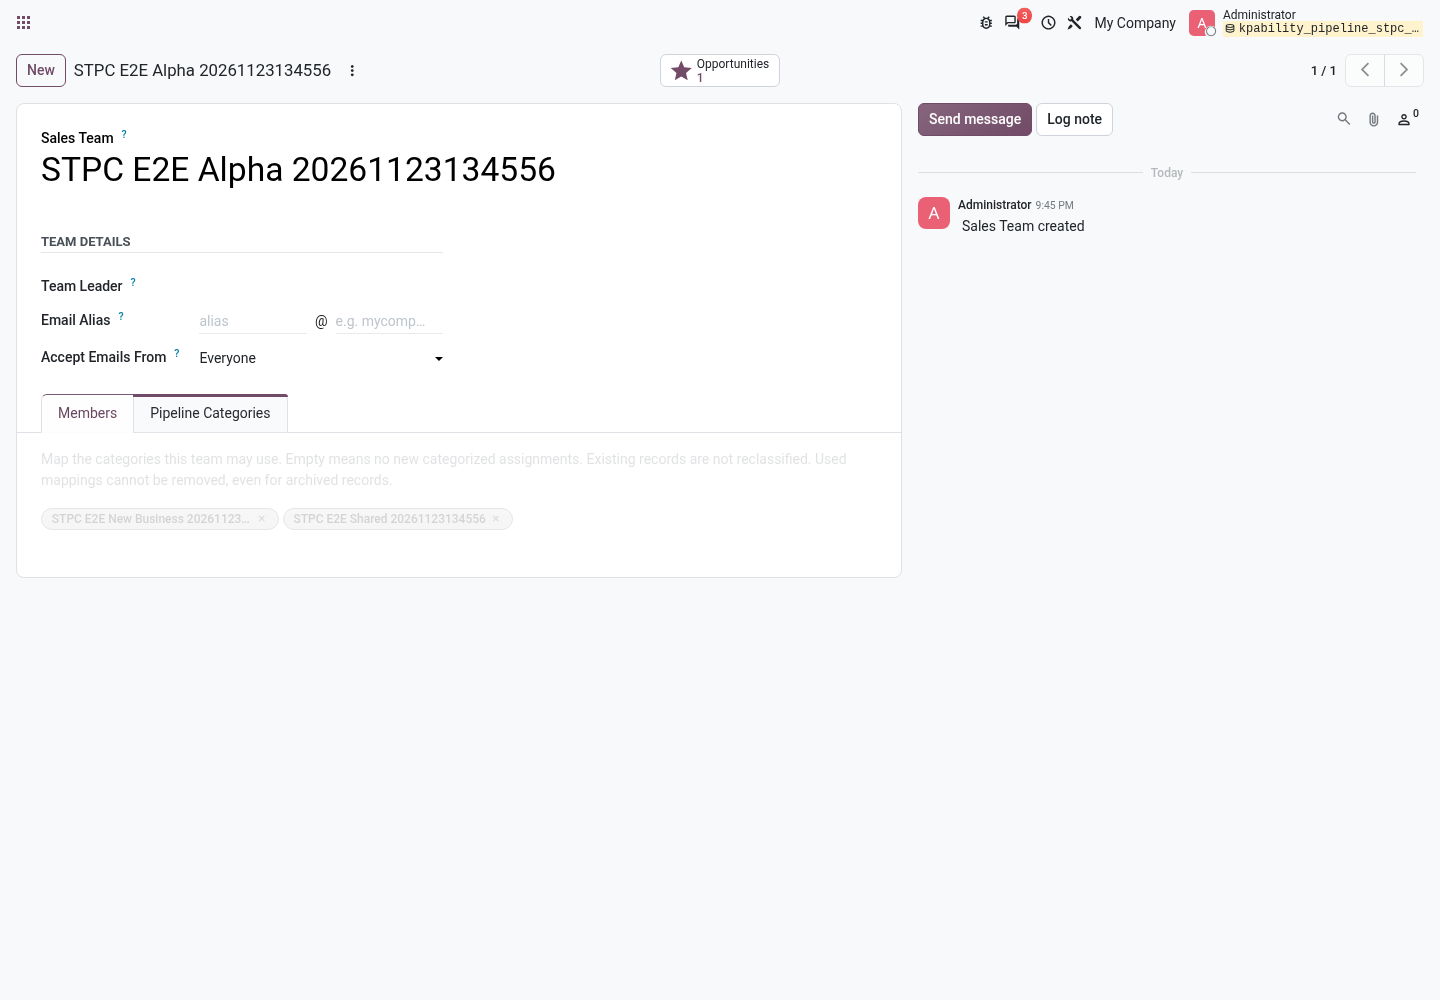
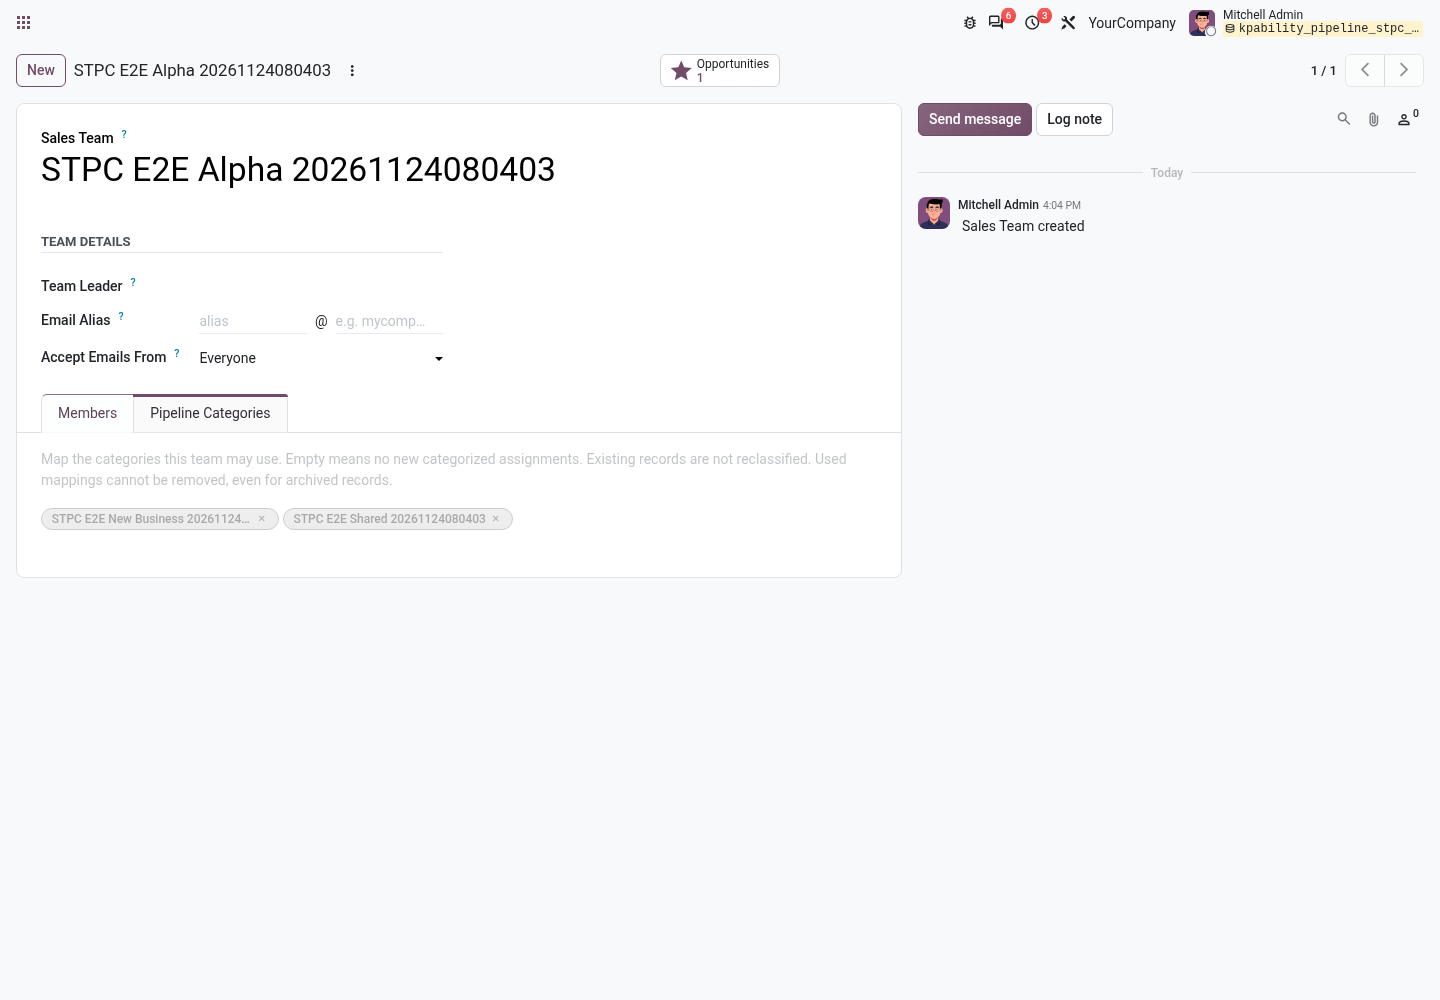
fix: gate category-side mapping and stabilize browser checks

diff --git a/kpability_sales_team_pipeline_categories/tests/e2e/test_sales_team_pipeline_categories.py b/kpability_sales_team_pipeline_categories/tests/e2e/test_sales_team_pipeline_categories.py
@@ -8,6 +8,7 @@ import json
 import os
 import re
 import secrets
+import time
 import unittest
 from datetime import datetime, timezone
 from pathlib import Path
@@ -141,6 +142,19 @@ class SalesTeamPipelineBrowserTests(unittest.TestCase):
     def persisted(self, lead):
         return self.call("crm.lead", "read", [[lead], ["team_id", "pipeline_category_id", "expected_revenue"]])[0]
 
+    def wait_for(self, check, label):
+        deadline = time.monotonic() + 10
+        while time.monotonic() < deadline:
+            if check():
+                return
+            self.page.wait_for_timeout(250)
+        self.fail(f"Timed out waiting for {label}")
+
+    def other_team_categories(self):
+        return self.call(
+            "crm.team", "read", [[self.other_team], ["pipeline_category_ids"]]
+        )[0]["pipeline_category_ids"]
+
     def test_01_native_team_configuration_and_category_mapping(self):
         self.open_record("crm.team", self.team)
         self.page.get_by_role("tab", name="Pipeline Categories", exact=True).click()
@@ -155,15 +169,15 @@ class SalesTeamPipelineBrowserTests(unittest.TestCase):
         expect(category_teams.locator("input")).to_be_visible()
         category_teams.locator("input").fill(self.team_names[1])
         self.page.get_by_role("option", name=self.team_names[1], exact=True).click()
+        expect(category_teams).to_contain_text(self.team_names[1])
         self.page.screenshot(path=str(self.output / "STPC01-category-team-mapping.png"), full_page=True)
         self.page.get_by_role("button", name="Save manually", exact=True).click()
-        stored = self.call("crm.team", "read", [[self.other_team], ["pipeline_category_ids"]])[0]
-        self.assertIn(self.category, stored["pipeline_category_ids"])
+        self.wait_for(lambda: self.category in self.other_team_categories(), "category-side team link")
         # Restore the original mapping so later cases keep the same fixtures.
         category_teams.locator(".o_tag", has_text=self.team_names[1]).locator(".o_delete").click()
+        expect(category_teams).not_to_contain_text(self.team_names[1])
         self.page.get_by_role("button", name="Save manually", exact=True).click()
-        stored = self.call("crm.team", "read", [[self.other_team], ["pipeline_category_ids"]])[0]
-        self.assertNotIn(self.category, stored["pipeline_category_ids"])
+        self.wait_for(lambda: self.category not in self.other_team_categories(), "category-side team unlink")
 
     def test_02_category_dropdown_intersects_team_mapping(self):
         self.open_record("crm.lead", self.lead)
@@ -254,6 +268,10 @@ class SalesTeamPipelineBrowserTests(unittest.TestCase):
             page.get_by_role("tab", name="Pipeline Categories", exact=True).click()
             expect(page.locator("[name='pipeline_category_ids']")).to_contain_text(self.category_names[0])
             expect(page.locator("[name='pipeline_category_ids'] input")).to_have_count(0)
+            self.open_backend(page, f"crm.pipeline.category/{self.category}")
+            page.locator(".o_form_view").wait_for()
+            expect(page.locator("[name='sales_team_ids']")).to_contain_text(self.team_names[0])
+            expect(page.locator("[name='sales_team_ids'] input")).to_have_count(0)
             page.screenshot(path=str(self.output / "STPC08-sales-read-only.png"), full_page=True)
         finally:
             client.close()

diff --git a/kpability_sales_team_pipeline_categories/tests/test_sales_team_pipeline_categories.py b/kpability_sales_team_pipeline_categories/tests/test_sales_team_pipeline_categories.py
@@ -331,6 +331,12 @@ class TestSalesTeamPipelineCategories(TransactionCase):
             self.team_a.with_user(self.sales).write({"pipeline_category_ids": [Command.clear()]})
         self.team_empty.with_user(self.manager).write({"pipeline_category_ids": [Command.link(self.category_shared.id)]})
         self.assertIn(self.category_shared, self.team_empty.pipeline_category_ids)
+        self.assertFalse(self.category_a.with_user(self.sales).s_can_edit_sales_teams)
+        self.assertTrue(self.category_a.with_user(self.manager).s_can_edit_sales_teams)
+        with self.assertRaises(AccessError):
+            self.category_a.with_user(self.sales).write({
+                "sales_team_ids": [Command.link(self.team_other.id)],
+            })
 
     def test_stpc08_mapping_does_not_grant_record_access(self):
         lead = self._lead(self.category_shared, user_id=self.manager.id)

diff --git a/kpability_sales_team_pipeline_categories/models/crm_pipeline_category.py b/kpability_sales_team_pipeline_categories/models/crm_pipeline_category.py
@@ -17,6 +17,16 @@ class CrmPipelineCategory(models.Model):
              "team-side protections for used history and company scope still apply. "
              "Company-specific categories only accept teams of that company; shared categories accept any team.",
     )
+    s_can_edit_sales_teams = fields.Boolean(
+        string="Can Edit Sales Teams",
+        compute="_compute_s_can_edit_sales_teams",
+    )
+
+    @api.depends_context("uid")
+    def _compute_s_can_edit_sales_teams(self):
+        can_write = self.env.user.has_group("sales_team.group_sale_manager")
+        for category in self:
+            category.s_can_edit_sales_teams = can_write
 
     @api.model_create_multi
     def create(self, vals_list):

diff --git a/kpability_sales_team_pipeline_categories/docs/pull-request-draft.md b/kpability_sales_team_pipeline_categories/docs/pull-request-draft.md
@@ -7,7 +7,8 @@
 Add `kpability_sales_team_pipeline_categories` (`20.0.1.0.0`) as an optional
 Odoo 20 add-on. Sales Managers explicitly map eligible categories on native sales
 teams; the category form offers the same editable mapping from the category
-side, with team-side protections still enforced. CRM filters the Category
+side (read-only for non-managers), with team-side protections still enforced.
+CRM filters the Category
 dropdown by team/company and rejects invalid saves, imports and RPC changes
 without silently replacing the category. Category-scoped quick-create exposes
 Sales Team, and a read-only compatibility report helps managers find existing
@@ -16,8 +17,8 @@ mismatches without changing data or granting access.
 - Only manifest dependency: `kpability_pipeline_categories` (merged PR #4).
   Native CRM roles, record rules and team/stage computations remain authoritative.
 - No Studio, new security roles, inferred mappings or migration of existing
-  leads. PR #7 and replacement categorized website/email intake (issue #6) are
-  outside this diff. Review does not require merging PR #7 first.
+  leads. PR #7 is merged into this branch; replacement categorized website/email
+  intake (issue #6) remains outside this diff.
 - [Development plan](../../docs/development/sales-team-pipeline-categories.md)
   · [Configuration](../README.md)
   · [Verification and reproduction](sales-team-pipeline-categories.md)
@@ -26,8 +27,10 @@ mismatches without changing data or granting access.
 
 Local Odoo `20.0+e`, Community `24f007f4f8a2dbdab05c1b4aecf48bd4e9c4251e`,
 Enterprise `7773cfc038583d1b664491128424cd1904be946c`, Python 3.12.14 and
-PostgreSQL 16.15. Base `20` at `c670310240a76e775afcdce3877db3f3ad40ac88`
-includes CRM Stage Reasons `20.0.1.0.0`; category base `20.0.1.1.0`.
+PostgreSQL 16.15. Branch includes `origin/20` at
+`80bbe6b78ee465fc8e1453082d57768e052cf81e` (PR #7 retirement merged); category
+base updates to `20.0.1.2.0`, the installed website companion
+to `20.0.1.1.0`, and CRM Stage Reasons remains `20.0.1.0.0`.
 Browser: Playwright 1.65.0 / Chromium 158.0.8127.18 with `debug=assets`, with a
 manager and a restricted salesperson. Multi-company boundaries are covered by
 ORM tests, not a selected-company browser walkthrough.
@@ -43,21 +46,24 @@ ORM tests, not a selected-company browser walkthrough.
 | STPC09–10 | Discard restores prior values; explicit save and reopen persist the new team/category; scoped quick-create retains the category. **Passed**, ORM + browser. | [After Discard](evidence/stpc09-after-discard.png), [after Save](evidence/stpc09-explicit-reclassification.png), [4.4-second recording](evidence/stpc09-save-discard.webm), [quick-create](evidence/stpc10-scoped-quick-create.png) |
 | STPC11–12 | Report is read-only and rule-aware; optional engines not needed; install/update retain open, won, lost and unclassified CRM and audit dates. **Passed**, ORM, browser and lifecycle snapshots. | [Report](evidence/stpc11-read-only-report.png), [lifecycle results](sales-team-pipeline-categories.md#verification-record) |
 
-Local totals: 37 fresh Odoo checks (35 authored), 35 after updating the add-on,
-45 on a separate base-only install, and 7/7 Playwright cases, all passed.
-Separately rehearsed upgrading the legacy website/email cleanup at PR #7 head
-`b1f21eea6c1e8f0d3157d34e2856163dd36c49f9`: 8 website checks passed; stored
-configuration and the unrelated native alias stayed intact. After installing
-the team add-on, 35 STPC and 7/7 Playwright cases passed and CRM history stayed
-unchanged. PR #7 was not merged into this branch.
+Final combined branch, fresh Enterprise demo and no-demo databases: **90 Odoo
+checks, 0 failed, 0 errors each**; **7/7 Playwright cases passed**. The final
+run includes the merged PR #7 retirement, category-side mapping, category base
+`20.0.1.2.0`, website companion `20.0.1.1.0`, Stage Reasons and keyword
+assignment. Earlier foundations were also verified at 37 fresh (35 authored),
+35 update and 45 base-only checks; the separate PR #7 rehearsal covered 8
+website checks, retained stored configuration and the unrelated native alias,
+and passed 35 STPC plus 7/7 browser checks after installing the team add-on.
+Those historical runs remain in the implementation record.
 
 ## Release, rollback and review
 
 No deployment, release tag or client adoption requested. Before enabling:
 
-- [ ] PR #7 is approved and merged through `20`; on a staging copy upgrade the
-  core and installed legacy companion without uninstalling. Smoke-test retired
-  categorized routes, native routes and team CRM on the actual merged build.
+- [ ] PR #7 is merged through `20` and this branch is rebased/merged as needed;
+  on a staging copy upgrade the core and installed legacy companion without
+  uninstalling. Smoke-test retired categorized routes, native routes and team
+  CRM on the actual merged build.
 - [ ] An independent checker reproduces the mapping, rejected save/RPC, native
   salesperson permissions, Save/Discard, quick-create and compatibility report
   (including selected-company switching). Access owner approves the intended

diff --git a/kpability_sales_team_pipeline_categories/docs/sales-team-pipeline-categories.md b/kpability_sales_team_pipeline_categories/docs/sales-team-pipeline-categories.md
@@ -5,10 +5,11 @@
 Implementation began November 13, 2026 on the existing
 `feature/sales-team-pipeline-categories` branch after incorporating approved
 `origin/20` at `cf54708dd35761c9a3e09d27a0bb2aa711f4b378` (merged PR #4).
-The November 23 PR preparation incorporates `origin/20` at
-`c670310240a76e775afcdce3877db3f3ad40ac88` (includes merged CRM Stage Reasons).
-The foundation is independent for review; PR #7 is a rollout gate, not a
-manifest dependency or part of this branch.
+The November 24 update incorporates `origin/20` at
+`80bbe6b` (PR #7 legacy-intake retirement merged) and adds category-side team
+mapping while keeping one authoritative relation. The add-on is independently
+reviewable; the retirement upgrade and a merged staging smoke test remain
+rollout gates, not manifest dependencies.
 
 Approved policies replace the old proposal in `docs/development/`:
 
@@ -43,12 +44,13 @@ this foundation. Business choices are records, not hard-coded selections.
 
 | Component | Revision / requirement |
 | --- | --- |
+| Target branch, `20` | `80bbe6b` on November 24, 2026, after the PR #7 retirement merge; feature branch includes this merge |
 | Official Odoo Community source, `20.0` | `24f007f4f8a2dbdab05c1b4aecf48bd4e9c4251e`, sibling `../odoo`, official GitHub origin |
 | Official Enterprise source, `20.0` | `7773cfc038583d1b664491128424cd1904be946c`, sibling `../enterprise`, official GitHub origin |
 | Python | CPython 3.12.14; target source supports 3.12–3.14 |
-| PostgreSQL | PostgreSQL 16.15, dedicated local container on loopback port 55421 |
+| PostgreSQL | PostgreSQL 16.15, dedicated disposable local container on loopback |
 | Edition | Runtime `20.0+e`, with `web_enterprise` and `crm_enterprise` installed; browser setup asserts both edition and modules |
-| Add-ons | Team consumer `20.0.1.0.0` (LGPL-3), category base `20.0.1.1.0`, CRM Stage Reasons `20.0.1.0.0`; cleanup verification uses the versions below |
+| Add-ons | Team consumer `20.0.1.0.0` (LGPL-3), category base `20.0.1.2.0`, website companion `20.0.1.1.0` when installed, CRM Stage Reasons `20.0.1.0.0`, keyword assignment `20.0.1.1.0` |
 
 Native APIs inspected: stored/precomputed team selection, user-driven team
 recomputation, computed company and stage, CRM `create/write`, native
@@ -144,11 +146,14 @@ to overwrite an existing baseline or use a snapshot outside `/tmp/opencode`.
 
 ## Verification record
 
-Re-run locally on November 23, 2026, on the source/runtime baseline above. Raw
-maker logs are local at `/tmp/opencode/kpability-stpc-pr.t4szcPfV/`.
+Re-run locally on November 23–24, 2026, on the source/runtime baseline above.
+Raw maker logs are local under `/tmp/opencode/`.
 
 | Run | Result | File in the local run directory |
 | --- | --- | --- |
+| Final combined branch with `20` at `80bbe6b` (PR #7 retirement included), fresh Enterprise demo database, all tagged suites | **90 checks, 0 failed, 0 errors** | `kpability-stpc-final-1534c71.log` |
+| Same final branch, fresh no-demo database, same tagged suites | **90 checks, 0 failed, 0 errors** | `kpability-stpc-final-nodemo.log` |
+| Same final branch, Playwright `debug=assets`, category-side mapping included | **7/7 passed**, no unexpected page JavaScript errors | `kpability-stpc-final-browser.log`, `browser/20261124080403/` |
 | Fresh consumer + Enterprise + CRM Stage Reasons, no website companion | **37 passed**, including all 35 authored STPC methods | `fresh.log` |
 | Same-version consumer update on the fresh database | **35 passed** | `fresh-update.log` |
 | Category base + Enterprise, no team consumer | **45 passed**, including 43 authored base tests | `base-only.log` |
@@ -188,7 +193,9 @@ checker approval, a full native CRM suite, or Odoo.sh/client UAT certification.
 Use a separate synthetic database and a separate, disposable source tree. The
 rehearsal integrated PR #7 head `b1f21eea6c1e8f0d3157d34e2856163dd36c49f9`
 with feature source `c5015546d4de1e65e015122b07519533c007986f` (no changes to
-the feature's production code). It did **not** merge PR #7 into the branch.
+the feature's production code). That rehearsal did **not** merge PR #7 into the
+feature branch. The November 24 branch update later merged the approved `20`
+head, including PR #7, as recorded above.
 
 1. With approved base code, install category base `20.0.1.1.0` and legacy
    website companion `20.0.1.0.0` alongside Enterprise and CRM Stage Reasons.

diff --git a/docs/development/sales-team-pipeline-categories.md b/docs/development/sales-team-pipeline-categories.md
@@ -1,6 +1,6 @@
 # Development plan: Sales team pipeline categories
 
-> **Implementation update — November 23, 2026:** the approved team foundation is
+> **Implementation update — November 24, 2026:** the approved team foundation is
 > now implemented in the root `kpability_sales_team_pipeline_categories` add-on.
 > See its [implementation and verification record](../../kpability_sales_team_pipeline_categories/docs/sales-team-pipeline-categories.md)
 > and [PR draft](../../kpability_sales_team_pipeline_categories/docs/pull-request-draft.md)
@@ -9,9 +9,10 @@
 > in particular all CRM history (not just active records) protects mappings,
 > shared categories/companyless teams follow the approved explicit policy, and
 > both the team and category forms edit the same mapping (category-side edits
-> still run the team-side protections). Team review can proceed now; rollout
-> waits for PR #7 to merge through `20`, followed by the retirement upgrade and
-> a staging smoke test.
+> still run the team-side protections). PR #7's retirement is merged into `20`
+> at `80bbe6b`, and this branch includes it. Team review can proceed; rollout
+> still requires the retirement upgrade on the deployment copy, a staging smoke
+> test, and independent sign-off.
 
 | Item | Plan |
 | --- | --- |

diff --git a/kpability_sales_team_pipeline_categories/docs/evidence/README.md b/kpability_sales_team_pipeline_categories/docs/evidence/README.md
@@ -1,14 +1,15 @@
 # Sales Team Pipeline Categories — local maker evidence
 
-Synthetic data only. Captured November 23, 2026, using Playwright 1.65.0,
+Synthetic data only. Captured November 23–24, 2026, using Playwright 1.65.0,
 Chromium 158.0.8127.18 and Odoo `20.0+e` in `debug=assets` mode with Enterprise
 web/CRM and CRM Stage Reasons installed. The seven browser tests passed on the
-feature branch and again on a separate local rehearsal of the PR #7 cleanup
-upgrade, without unexpected page JavaScript errors. Raw runs and per-case
-videos are retained locally:
+feature branch, including the merged PR #7 retirement and the writable
+category-side mapping, without unexpected page JavaScript errors. Raw runs and
+per-case videos are retained locally:
 
-- `/tmp/opencode/kpability-stpc-pr.t4szcPfV/browser-fresh/20261123134556/`
+- `/tmp/opencode/kpability-stpc-final-browser/20261124080403/` (current branch)
 - `/tmp/opencode/kpability-stpc-pr.t4szcPfV/browser-cleanup/20261123134557/`
+  (earlier PR #7 retirement rehearsal; not the actual merged staging build)
 
 | File | Case / observation |
 | --- | --- |

diff --git a/kpability_sales_team_pipeline_categories/README.md b/kpability_sales_team_pipeline_categories/README.md
@@ -26,9 +26,10 @@ category model, new roles, or category-based record access.
 The category form also lets Sales Managers add or remove **Sales Teams**. Both
 forms edit the same relation, and category-side writes are routed through the
 team field, so its active-category, company-scope and used-history protections
-still apply. Imports/RPC use the same checks. No extra ACLs are necessary:
-native team write permissions and the base category record rules remain
-authoritative.
+still apply. The field is read-only for non-managers. Actual writes still require
+native team write permissions; imports/RPC use the same checks. No extra ACLs are
+necessary: native team write permissions and the base category record rules
+remain authoritative.
 
 ## CRM behavior
 
